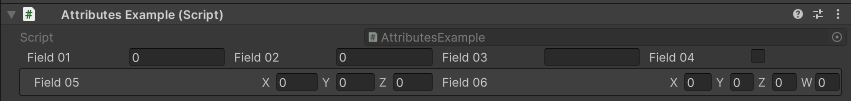
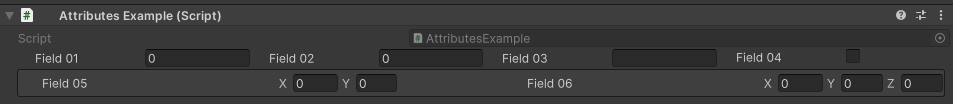
Update 2.9.0

diff --git a/docs/source/Attributes/ButtonAttributes/valuebuttons.rst b/docs/source/Attributes/ButtonAttributes/valuebuttons.rst
@@ -8,6 +8,7 @@ Attribute to display a collection of values in toggleble buttons.
 
 **Parameters:**
 	- ``string`` collectionName: The name of the collection
+	- ``string[]`` displayNames: Change the display name for each button
 	- `optional`, ``float`` buttonsHeight: The height of the selection buttons in pixels
 	- `optional`, ``bool`` showLabel: Show the label of the field
 
@@ -33,3 +34,45 @@ Example::
 	}
 
 .. image:: ../../Images/ValueButtons01.png
+
+You can also customize how to display button values by passing a ``string`` array like this::
+
+	using UnityEngine;
+	using EditorAttributes;
+	
+	public class AttributesExample : MonoBehaviour
+	{
+		[ValueButtons(nameof(buttonValues), new string[] { "Forward", "Up", "Right", "One", "Zero" })]
+		[SerializeField] private Vector3 vectorSelection;
+
+		private Vector3[] buttonValues = new Vector3[]
+		{
+			Vector3.forward, Vector3.up, Vector3.right, Vector3.one, Vector3.zero
+		};
+	}
+
+Or alternatively use a Dictionary where the keys will be used for display::
+
+	using UnityEngine;
+	using EditorAttributes;
+	using System.Collections.Generic;
+	
+	public class AttributesExample : MonoBehaviour
+	{
+		[ValueButtons(nameof(buttonValues))]
+		[SerializeField] private Vector3 vectorSelection;
+
+		private Dictionary<string, Vector3> buttonValues = new()
+		{
+			{ "Forward", Vector3.forward },
+			{ "Up", Vector3.up },
+			{ "Right", Vector3.right },
+			{ "One", Vector3.one },
+			{ "Zero", Vector3.zero }
+		};
+	}
+	
+.. image:: ../../Images/ValueButtons02.png
+
+.. note:: 
+	If you try to use both a Dictionary and a ``string`` array with the attribute, the array will take priority for the displayed values.

diff --git a/docs/source/Attributes/GroupingAttributes/horizontalgroup.rst b/docs/source/Attributes/GroupingAttributes/horizontalgroup.rst
@@ -5,6 +5,7 @@ Attribute to display specified fields horizontally.
 
 **Parameters:**
 	- `optional`, ``float`` widthOffset: By how much to offset the width of the properties in pixels
+	- `optional`, ``float`` propertySpace: How much space in pixels is between the properties
 	- `optional`, ``bool`` drawInBox: Draw the group in a nice box
 	- `params`, ``string`` fieldsToGroup: The name of the fields to group
 
@@ -18,7 +19,7 @@ Example::
 		[SerializeField, HorizontalGroup(nameof(field01), nameof(field02), nameof(field03), nameof(field04))]
 		private Void groupHolder01;
 	
-		[SerializeField, HorizontalGroup(50f, true, nameof(field05), nameof(field06))]
+		[SerializeField, HorizontalGroup(50f, 50f, true, nameof(field05), nameof(field06))]
 		private Void groupHolder02;
 	
 		[SerializeField, HideProperty] private int field01;
@@ -26,8 +27,8 @@ Example::
 		[SerializeField, HideProperty] private string field03;
 		[SerializeField, HideProperty] private bool field04;
 	
-		[SerializeField, HideProperty] private Vector3 field05;
-		[SerializeField, HideProperty] private Vector4 field06;
+		[SerializeField, HideProperty] private Vector2 field05;
+		[SerializeField, HideProperty] private Vector3 field06;
 	}
 
 .. image:: ../../Images/HorizontalGroup01.png

diff --git a/docs/source/changelogs.rst b/docs/source/changelogs.rst
@@ -1,6 +1,24 @@
 Changelogs
 ==========
 
+EditorAttributes v2.9.0 Changelog:
+----------------------------------
+- Added checks for duplicate units and empty unit names when defining custom units
+- Added an additional parameter to ValueButtons Attribute for displaying custom labels for items
+- Added property space parameter in the HorizontalGroup Attribute
+- Added support for multiple inline buttons
+- Added percentage units
+- Added custom serialized objects support to ShowInInspector Attribute
+- Removed the widthOffset parameter from Vertical, Foldout and Toggle groups
+- Deprecated TimeField Attribute in favor of UnitField
+- HideProperty now will now hide nested properties as well
+- MinMaxSlider handles now snap when using Vector2Int
+- Fixed an issue where some attributes don't change the display value when that value is changed by script
+- Fixed null reference exception in addressables validation during build
+- Fixed object reference exception when using UnitField Attribute in a fresh project
+- Fixed HideLabel Attribute not working in horizontal groups
+- Fixed coloring issues with unit fields
+
 EditorAttributes v2.8.0 Changelog:
 ----------------------------------
 - Added UnitField Attribute

diff --git a/docs/source/Attributes/GroupingAttributes/verticalgroup.rst b/docs/source/Attributes/GroupingAttributes/verticalgroup.rst
@@ -4,7 +4,6 @@ VerticalGroup Attribute
 Attribute to display the specified fields vertically.
 
 **Parameters:**
-	- `optional`, ``float`` widthOffset: By how much to offset the width of the properties in pixels
 	- `optional`, ``bool`` drawInBox: Draw the group in a nice box
 	- `params`, ``string`` fieldsToGroup: The name of the fields to group
 
@@ -37,10 +36,10 @@ This attribute is best used with the :doc:`horizontalgroup` to display a bunch o
 		[HorizontalGroup(nameof(verticalGroupHolder01), nameof(verticalGroupHolder02))]
 		[SerializeField] private Void horizontalGroupHolder;
 	
-		[VerticalGroup(drawInBox: true, nameof(intField01), nameof(stringField01), nameof(boolField01))]
+		[VerticalGroup(true, nameof(intField01), nameof(stringField01), nameof(boolField01))]
 		[SerializeField, HideInInspector] private Void verticalGroupHolder01;
 	
-		[VerticalGroup(drawInBox: true, nameof(intField02), nameof(stringField02), nameof(boolField02))]
+		[VerticalGroup(true, nameof(intField02), nameof(stringField02), nameof(boolField02))]
 		[SerializeField, HideInInspector] private Void verticalGroupHolder02;
 	
 		[SerializeField, HideProperty] private int intField01;

diff --git a/docs/source/Scripting API/propertydrawerbase.rst b/docs/source/Scripting API/propertydrawerbase.rst
@@ -337,6 +337,19 @@ Declaration::
 **Parameters:**
 	- ``VisualElement`` visualElement: The element to apply the style to
 
+CopyStyle(VisualElement, VisualElement)
+---------------------------------------
+
+Copies all of the style values from a VisualElement to another.
+
+Declaration::
+
+	public void CopyStyle(VisualElement copyFrom, VisualElement copyTo)
+	
+**Parameters:**
+	- ``VisualElement`` copyFrom: The element to copy the style from
+	- ``VisualElement`` copyTo: The element to copy the style to
+
 CreateFieldForType<T>(string, object, bool)
 -------------------------------------------
 
@@ -402,6 +415,20 @@ Declaration::
 	- ``Type`` fieldType: The type of the value
 	- ``VisualElement`` field: The visual element of the field
 	- ``Action<object>`` valueCallback: The callback action
+
+GetFieldLabel(VisualElement)
+----------------------------
+
+Gets the label of the appropriate field
+
+Declaration::
+
+	public static string GetFieldLabel(VisualElement field)
+
+**Parameters:**
+	- ``VisualElement`` field: The visual element of the field
+	
+**Returns:** ``string``: The field label
 
 GetFieldValue(VisualElement)
 ----------------------------

diff --git a/docs/source/Attributes/ButtonAttributes/inlinebutton.rst b/docs/source/Attributes/ButtonAttributes/inlinebutton.rst
@@ -18,11 +18,15 @@ Example::
 	
 	public class AttributesExample : MonoBehaviour
 	{
-		[SerializeField, InlineButton(nameof(InlineButton))] private int intField;
-		[SerializeField, InlineButton(nameof(PrintString), "Press Me!", 200f)] private string stringField;
-		
-		private void InlineButton() => print("Hello World!");
-		
+		[InlineButton(nameof(PrintString))]
+		[SerializeField] private string stringField;
+	
+		[InlineButton(nameof(IncreaseValue), "+", 30f), InlineButton(nameof(DecreaseValue), "-", 30f)]
+		[SerializeField] private int intField;
+	
+		private void IncreaseValue() => intField++;
+		private void DecreaseValue() => intField--;
+	
 		private void PrintString() => print(stringField);
 	}
 

diff --git a/docs/source/Attributes/DropdownAttributes/dropdown.rst b/docs/source/Attributes/DropdownAttributes/dropdown.rst
@@ -38,7 +38,7 @@ You can also customize how to display dropdown values by passing a ``string`` ar
 	
 		private Vector3[] dropdownValues = new Vector3[]
 		{
-			Vector3.forward, Vector3.up, Vector3.right, Vector3.one, Vector3.zero
+			Vector3.forward, Vector3.up, Vector3.down, Vector3.one, Vector3.zero
 		};
 	}
 
@@ -57,10 +57,10 @@ Or alternatively use a Dictionary where the keys will be used for display::
 		{
 			{ "Directions/Forward", Vector3.forward },
 			{ "Directions/Up", Vector3.up }, 
-			{ "Directions/Down", Vector3.right }, 
+			{ "Directions/Down", Vector3.down }, 
 			{ "One", Vector3.one }, 
 			{ "Zero", Vector3.zero }
-		}
+		};
 	}
 	
 .. image:: ../../Images/Dropdown02.gif

diff --git a/docs/source/Attributes/MiscellaneousAttributes/hideproperty.rst b/docs/source/Attributes/MiscellaneousAttributes/hideproperty.rst
@@ -23,6 +23,3 @@ Debug inspector mode:
 
 The intended usage for this attribute is for fields grouped by the :doc:`../GroupingAttributes/index`, since you need to hide the original fields else they will be shown twice, hiding them with the
 `HideInInspector Attribute <https://docs.unity3d.com/ScriptReference/HideInInspector.html>`_ works well but this will also hide them in Debug View which might not be ideal.
-	
-.. note::
-	If the attribute is attached to an inherited field, that field has to be marked as ``public`` or ``protected`` for it to work.

diff --git a/docs/source/Scripting API/reflectionutility.rst b/docs/source/Scripting API/reflectionutility.rst
@@ -175,6 +175,20 @@ Declaration::
 
 **Returns:** ``bool``: True if the property is a list or array, false otherwise
 
+IsTypeCollection(Type)
+----------------------
+
+Checks to see if a type is a list or array.
+
+Declaration::
+
+	public static bool IsTypeCollection(Type type)
+	
+**Parameters:**
+	- ``Type`` type: The type to check
+
+**Returns:** ``bool``: True if the type is a list or array
+
 HasAnyAttributes(MemberInfo, params Type[])
 -------------------------------------------
 

diff --git a/docs/source/Attributes/GroupingAttributes/togglegroup.rst b/docs/source/Attributes/GroupingAttributes/togglegroup.rst
@@ -5,7 +5,6 @@ Attribute to display the specified fields in a toggleble group
 
 **Parameters:**
 	- ``string`` groupName: The name of the group
-	- `optional`, ``float`` widthOffset: By how much to offset the width of the properties in pixels
 	- `optional`, ``bool`` drawInBox: Draw the group in a nice box
 	- `params`, ``string`` fieldsToGroup: The name of the fields to group
 

diff --git a/docs/source/Attributes/GroupingAttributes/foldoutgroup.rst b/docs/source/Attributes/GroupingAttributes/foldoutgroup.rst
@@ -5,7 +5,6 @@ Attribute to display the specified fields in a foldout
 
 **Parameters:**
 	- ``string`` groupName: The name of the group
-	- `optional`, ``float`` widthOffset: By how much to offset the width of the properties in pixels
 	- `optional`, ``bool`` drawInBox: Draw the group in a nice box
 	- `params`, ``string`` fieldsToGroup: The name of the fields to group
 

diff --git a/docs/source/Attributes/NumericalAttributes/timefield.rst b/docs/source/Attributes/NumericalAttributes/timefield.rst
@@ -1,6 +1,9 @@
 TimeField Attribute
 ===================
 
+.. warning::
+	This attribute has been deprecated, use :doc:`unitfield` instead
+
 Attribute to display a numerical field as a specified time format and convert it to a single value
 
 **Parameters:**
